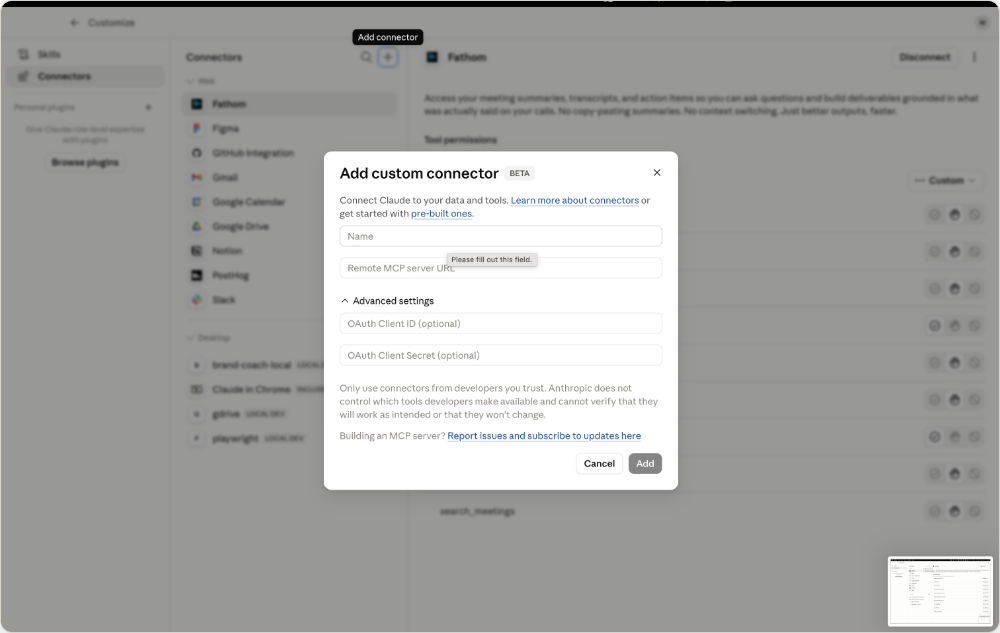
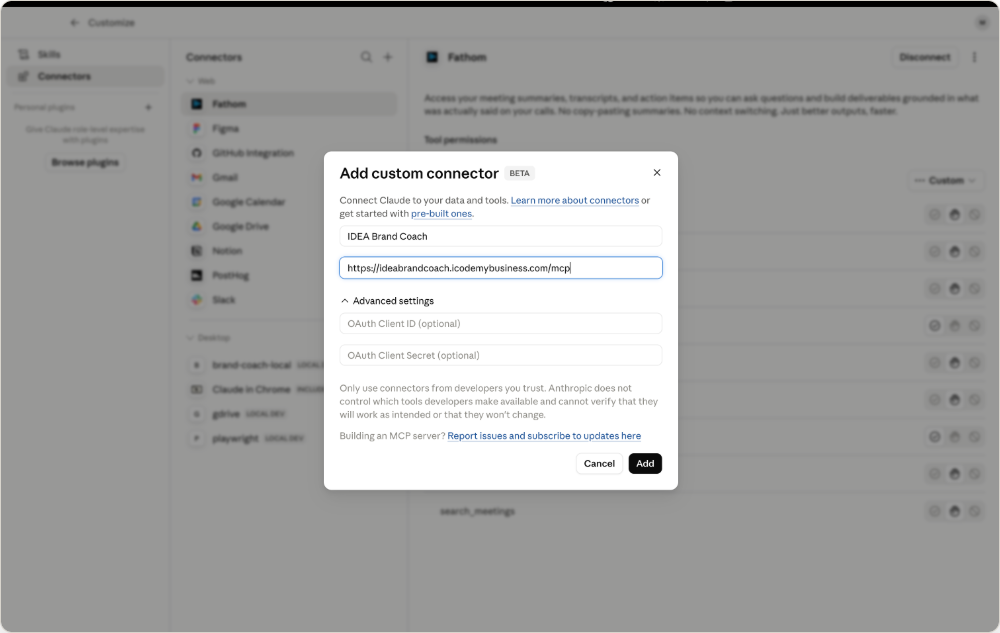
feat(onboard): filled-in connector modal + "you're connected" step; white URL
- Step 3 screenshot now shows the Add custom connector modal with the name +
  MCP server URL filled in (clearer than the empty-field shot).
- New step 4 screenshot: the IDEA Brand Coach connected with its full toolset.
- Fix the MCP server URL text to white so it's legible on the dark card
  (#mcpUrl wasn't matching the light-text rule and inherited dark ink).

diff --git a/public/onboard.html b/public/onboard.html
@@ -165,7 +165,17 @@
           <p>Name it <strong>IDEA Brand Coach</strong>, paste the <strong>Remote MCP server URL</strong> below, and click <strong>Add</strong>. No login required.</p>
         </div>
       </div>
-      <img class="shot" src="onboard-assets/connector-3-modal.png" alt="Add custom connector dialog with Name and Remote MCP server URL fields" loading="lazy" />
+      <img class="shot" src="onboard-assets/connector-3-modal.png" alt="Add custom connector dialog with the IDEA Brand Coach name and MCP server URL filled in" loading="lazy" />
+    </div>
+    <div class="wstep">
+      <div class="whead">
+        <span class="num">4</span>
+        <div>
+          <h3>You&rsquo;re connected</h3>
+          <p>The <strong>IDEA Brand Coach</strong> now appears in your connectors with its full toolset &mdash; ready to use in any chat.</p>
+        </div>
+      </div>
+      <img class="shot" src="onboard-assets/connector-4-connected.png" alt="IDEA Brand Coach connected in Claude, showing its available tools" loading="lazy" />
     </div>
   </div>
 
@@ -174,7 +184,7 @@
       <span class="label"><span class="dot"></span> MCP SERVER URL</span>
       <button class="copy-btn" id="copyUrlBtn" onclick="copyUrl()">Copy URL</button>
     </div>
-    <pre id="mcpUrl" style="padding:20px 22px;max-height:none">https://ideabrandcoach.icodemybusiness.com/mcp</pre>
+    <pre id="mcpUrl" style="padding:20px 22px;max-height:none;color:#ffffff;font-size:15px;letter-spacing:.2px">https://ideabrandcoach.icodemybusiness.com/mcp</pre>
     <div class="prompt-foot">Prefer Claude Code? Run <code style="background:rgba(255,255,255,.08);color:#f6e8bf;padding:1px 6px;border-radius:3px">claude mcp add --transport http idea-brand-coach https://ideabrandcoach.icodemybusiness.com/mcp</code></div>
   </div>
 